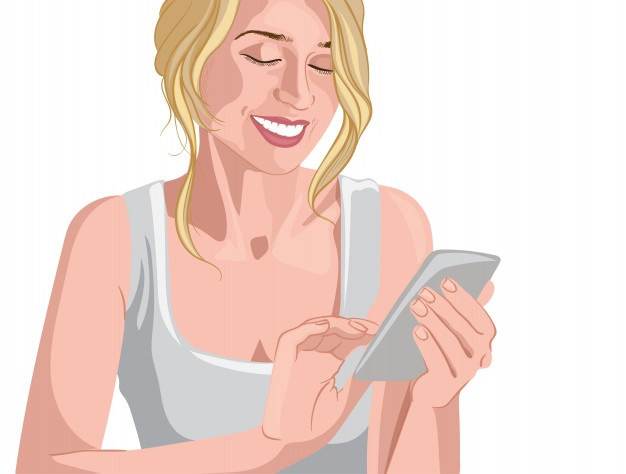
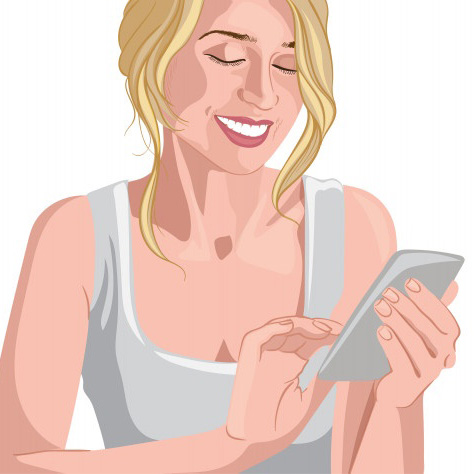
info box done

diff --git a/styles.css b/styles.css
@@ -1,0 +1,116 @@
+*{
+    margin:0;
+    padding:0;
+}
+body {
+    box-sizing: border-box;
+    background: #f8f4fa;
+}
+.logo {
+    width:15rem;
+    padding:0rem;
+}
+.nav {
+    display:flex;
+    list-style: none;
+    padding:1.5rem;
+    
+}
+.nav > li {
+    align-self: end;
+}
+a {
+    text-decoration: none;
+    padding-left:1.5rem;
+    color:rgb(26, 23, 23);
+
+   
+}
+.contactInfo{
+    display:grid;
+    grid-template-columns:1fr 1fr;
+    grid-template-rows: 1fr 1fr 1fr 1fr 1fr;
+    width:55rem;
+    height:25rem;
+    margin-left:4rem;
+    border-radius: 50px;
+    background: #ffffff;
+    box-shadow:  30px 30px 68px #d2cfd4, 
+             -30px -30px 68px #ffffff; 
+    z-index:1; 
+}
+.happyImage {
+    border-radius: 50%;
+    width:15rem;
+    grid-column: 2;
+    grid-row: 1 / 6;
+    justify-self:center;
+    align-self:center;
+    box-shadow: 0px 0px 2px #e4e1e1,
+    0px 0px 0px 5px #ffffff,
+    8px 8px 15px #b7babe,
+    -8px -8px 15px #ffffff;
+
+}
+.contactInfo > h2 {
+    grid-column: 1 / span 2;
+    grid-row: 1;
+    align-self:end;
+    
+    padding:0.4rem;
+    
+}
+.contactInfo > input{
+    grid-column: 1;
+    grid-row: 2 / span 2;
+    border-radius: 10px;
+    border:none;
+    outline:none;
+    background-color:#f8f4fa;
+    box-shadow: inset 6px 6px 6px #cbced1,
+                inset -6px -6px 6px #eaecec;
+    padding:1rem;
+    margin:1rem;
+
+}
+.bookAppoitment{
+    grid-column: 1;
+    grid-row: 5;
+    width:9rem;
+    height: 4rem;
+    justify-self: start;
+    margin-left:4rem;
+    border-radius: 5rem;
+    background-color: #F68887;
+
+}
+.callUs {
+    grid-column: 1;
+    grid-row: 5;
+    width:9rem;
+    height: 4rem;
+    justify-self: end;
+    margin-right:4rem;
+    border-radius: 5rem;
+    background-color: #F68887;
+}
+.sendQuery {
+    grid-column: 1;
+    grid-row: 4;
+    width:7rem;
+    height: 3rem;
+    justify-self: center;
+    border-radius: 5rem;
+    background-color:#F3D24F
+}
+button {
+    outline:none;
+    border:none;
+
+}
+.About {
+    background-color:#F68887;
+    width:13rem;
+    height:12rem;
+    z-index:-10;
+}

diff --git a/index.html b/index.html
@@ -1,0 +1,34 @@
+<!DOCTYPE html>
+<html lang="en">
+<head>
+    <meta charset="UTF-8">
+    <meta name="viewport" content="width=device-width, initial-scale=1.0">
+    <title>Document</title>
+    <link rel="stylesheet" href="styles.css">
+</head>
+<body>
+    <div class="navigationBar">
+        <ul class="nav"> 
+            <li><img src="./images/logof.png" class="logo"></li>
+            <li><a href="">About</a></li>
+            <li><a href="">Services</a></li>
+            <li><a href="">Our Experts</a></li>
+            <li><a href="">Contact</a></li>
+        </ul>
+
+    </div>
+    <div class="About">
+
+    </div>
+    <div class="contactInfo">
+    <h2>Talk to a Trusted Counsellor & feel better</h2>
+    <input type="text" placeholder="Type your health query here">
+    <button class="sendQuery">Send</button>
+    <button class="bookAppoitment">Book Appointment</button>
+    <button class="callUs">Call Us </button>
+     <img src="images/happy-smiling-blonde-woman-gray-t-shirt-looking-her-smartphone_1268-15125.jpg" class="happyImage">
+    </div>
+
+<script src="app.js"></script>    
+</body>
+</html>
